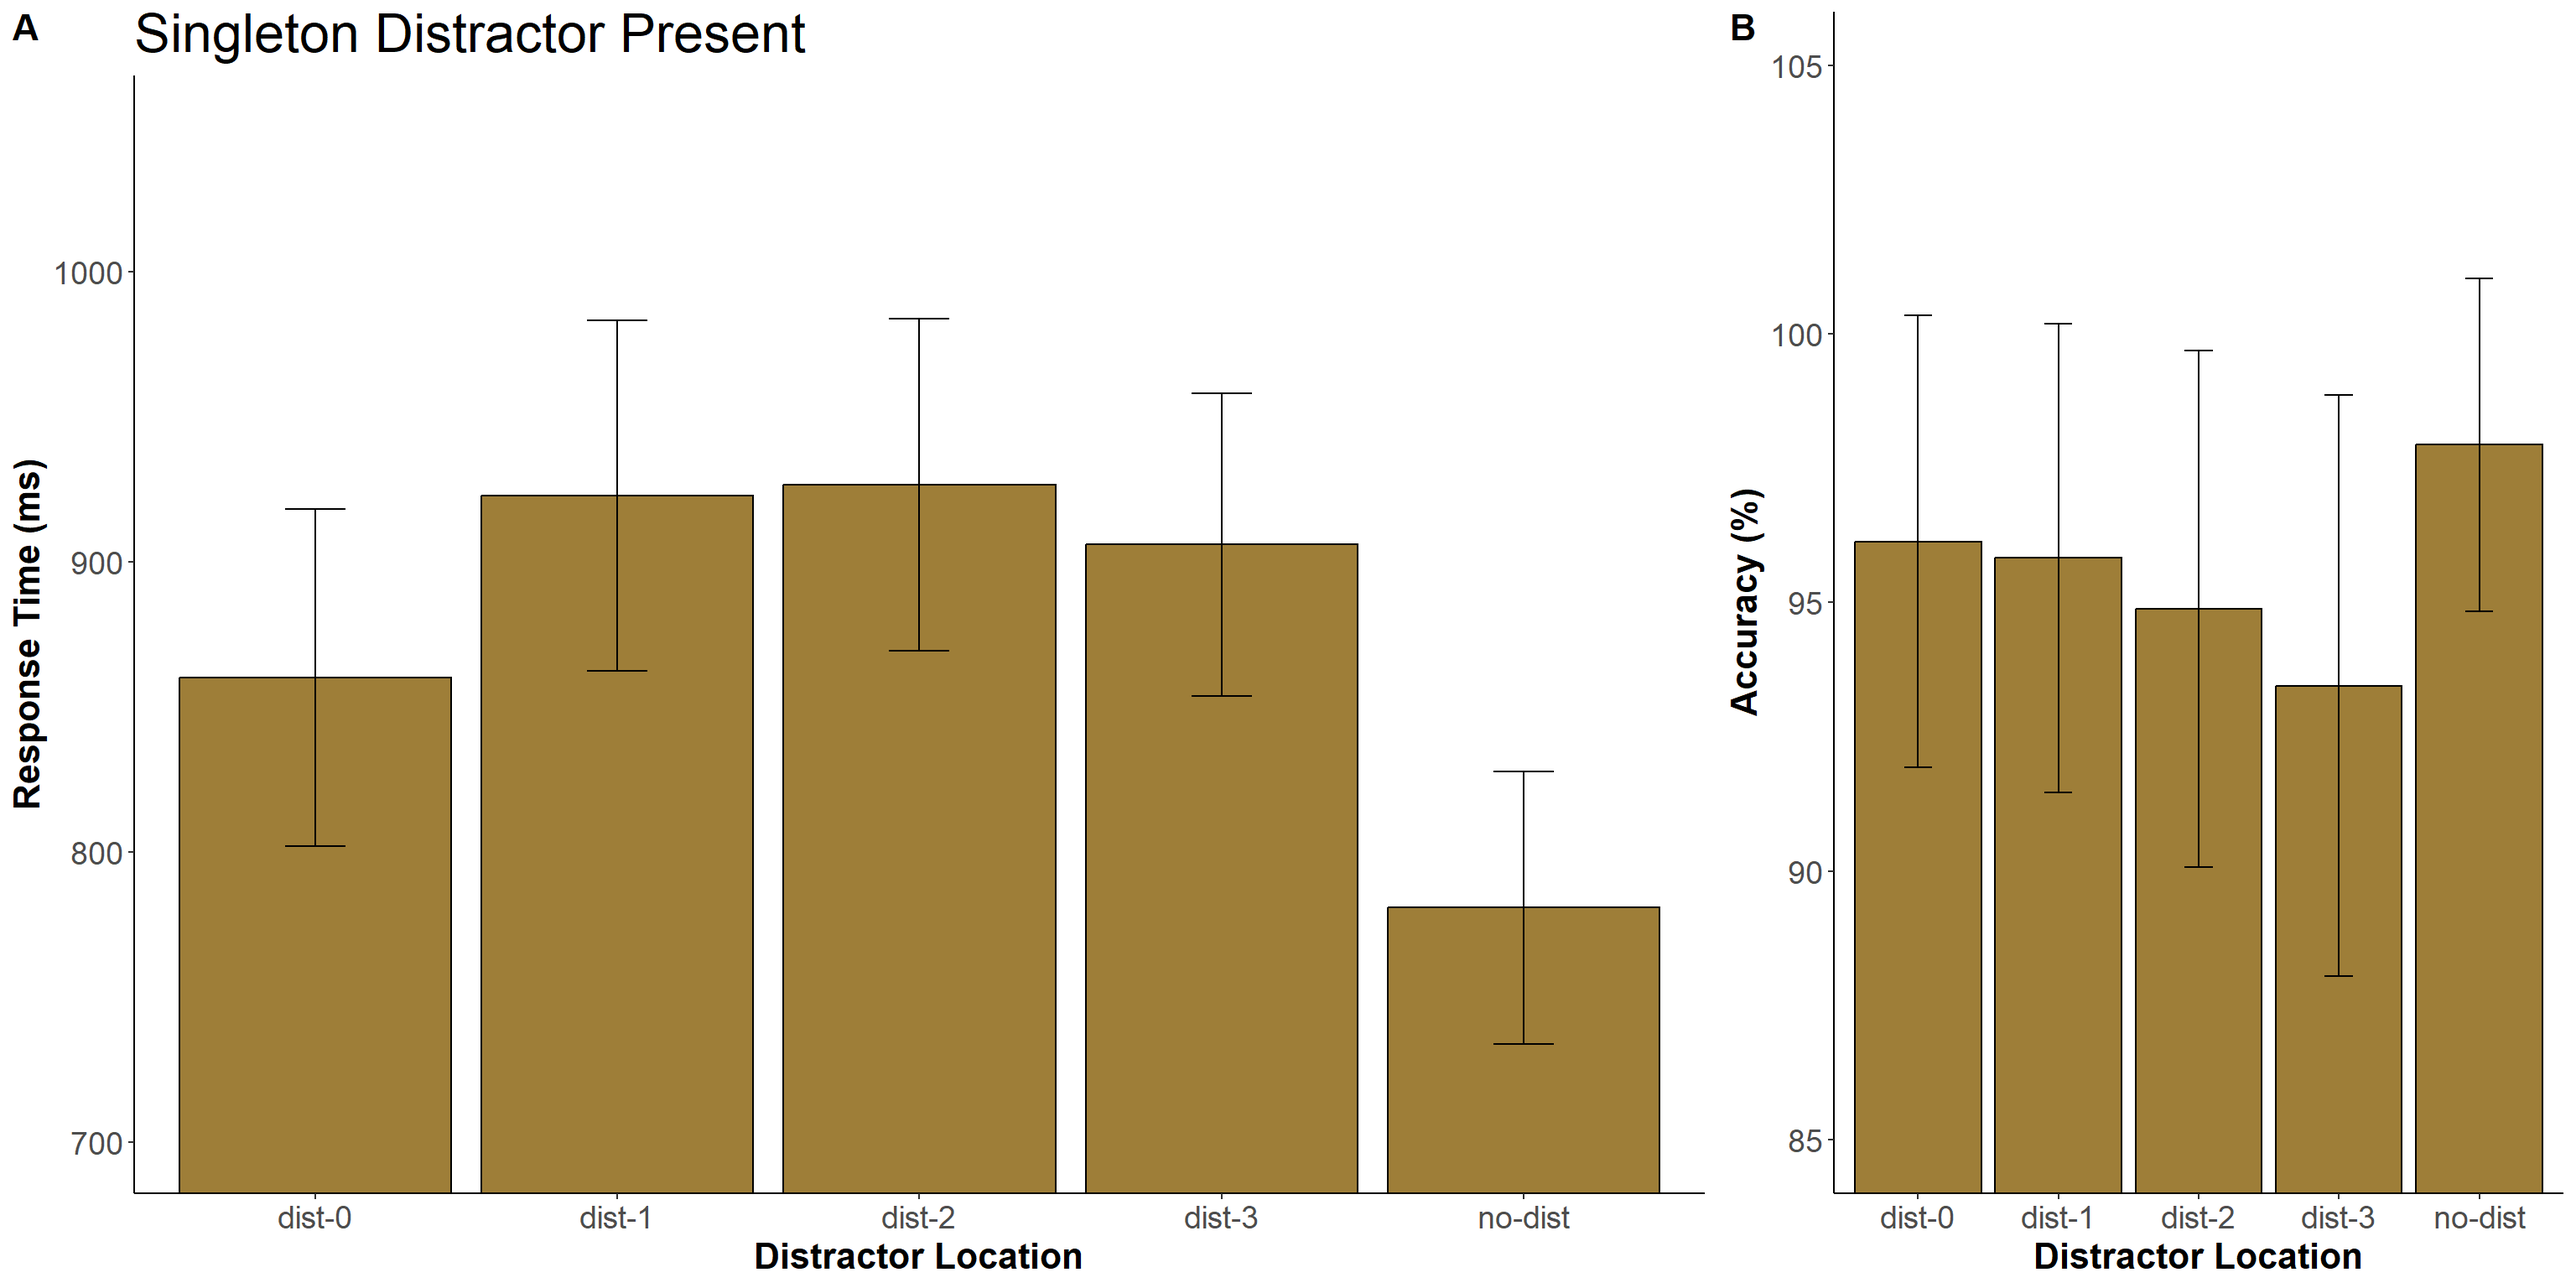
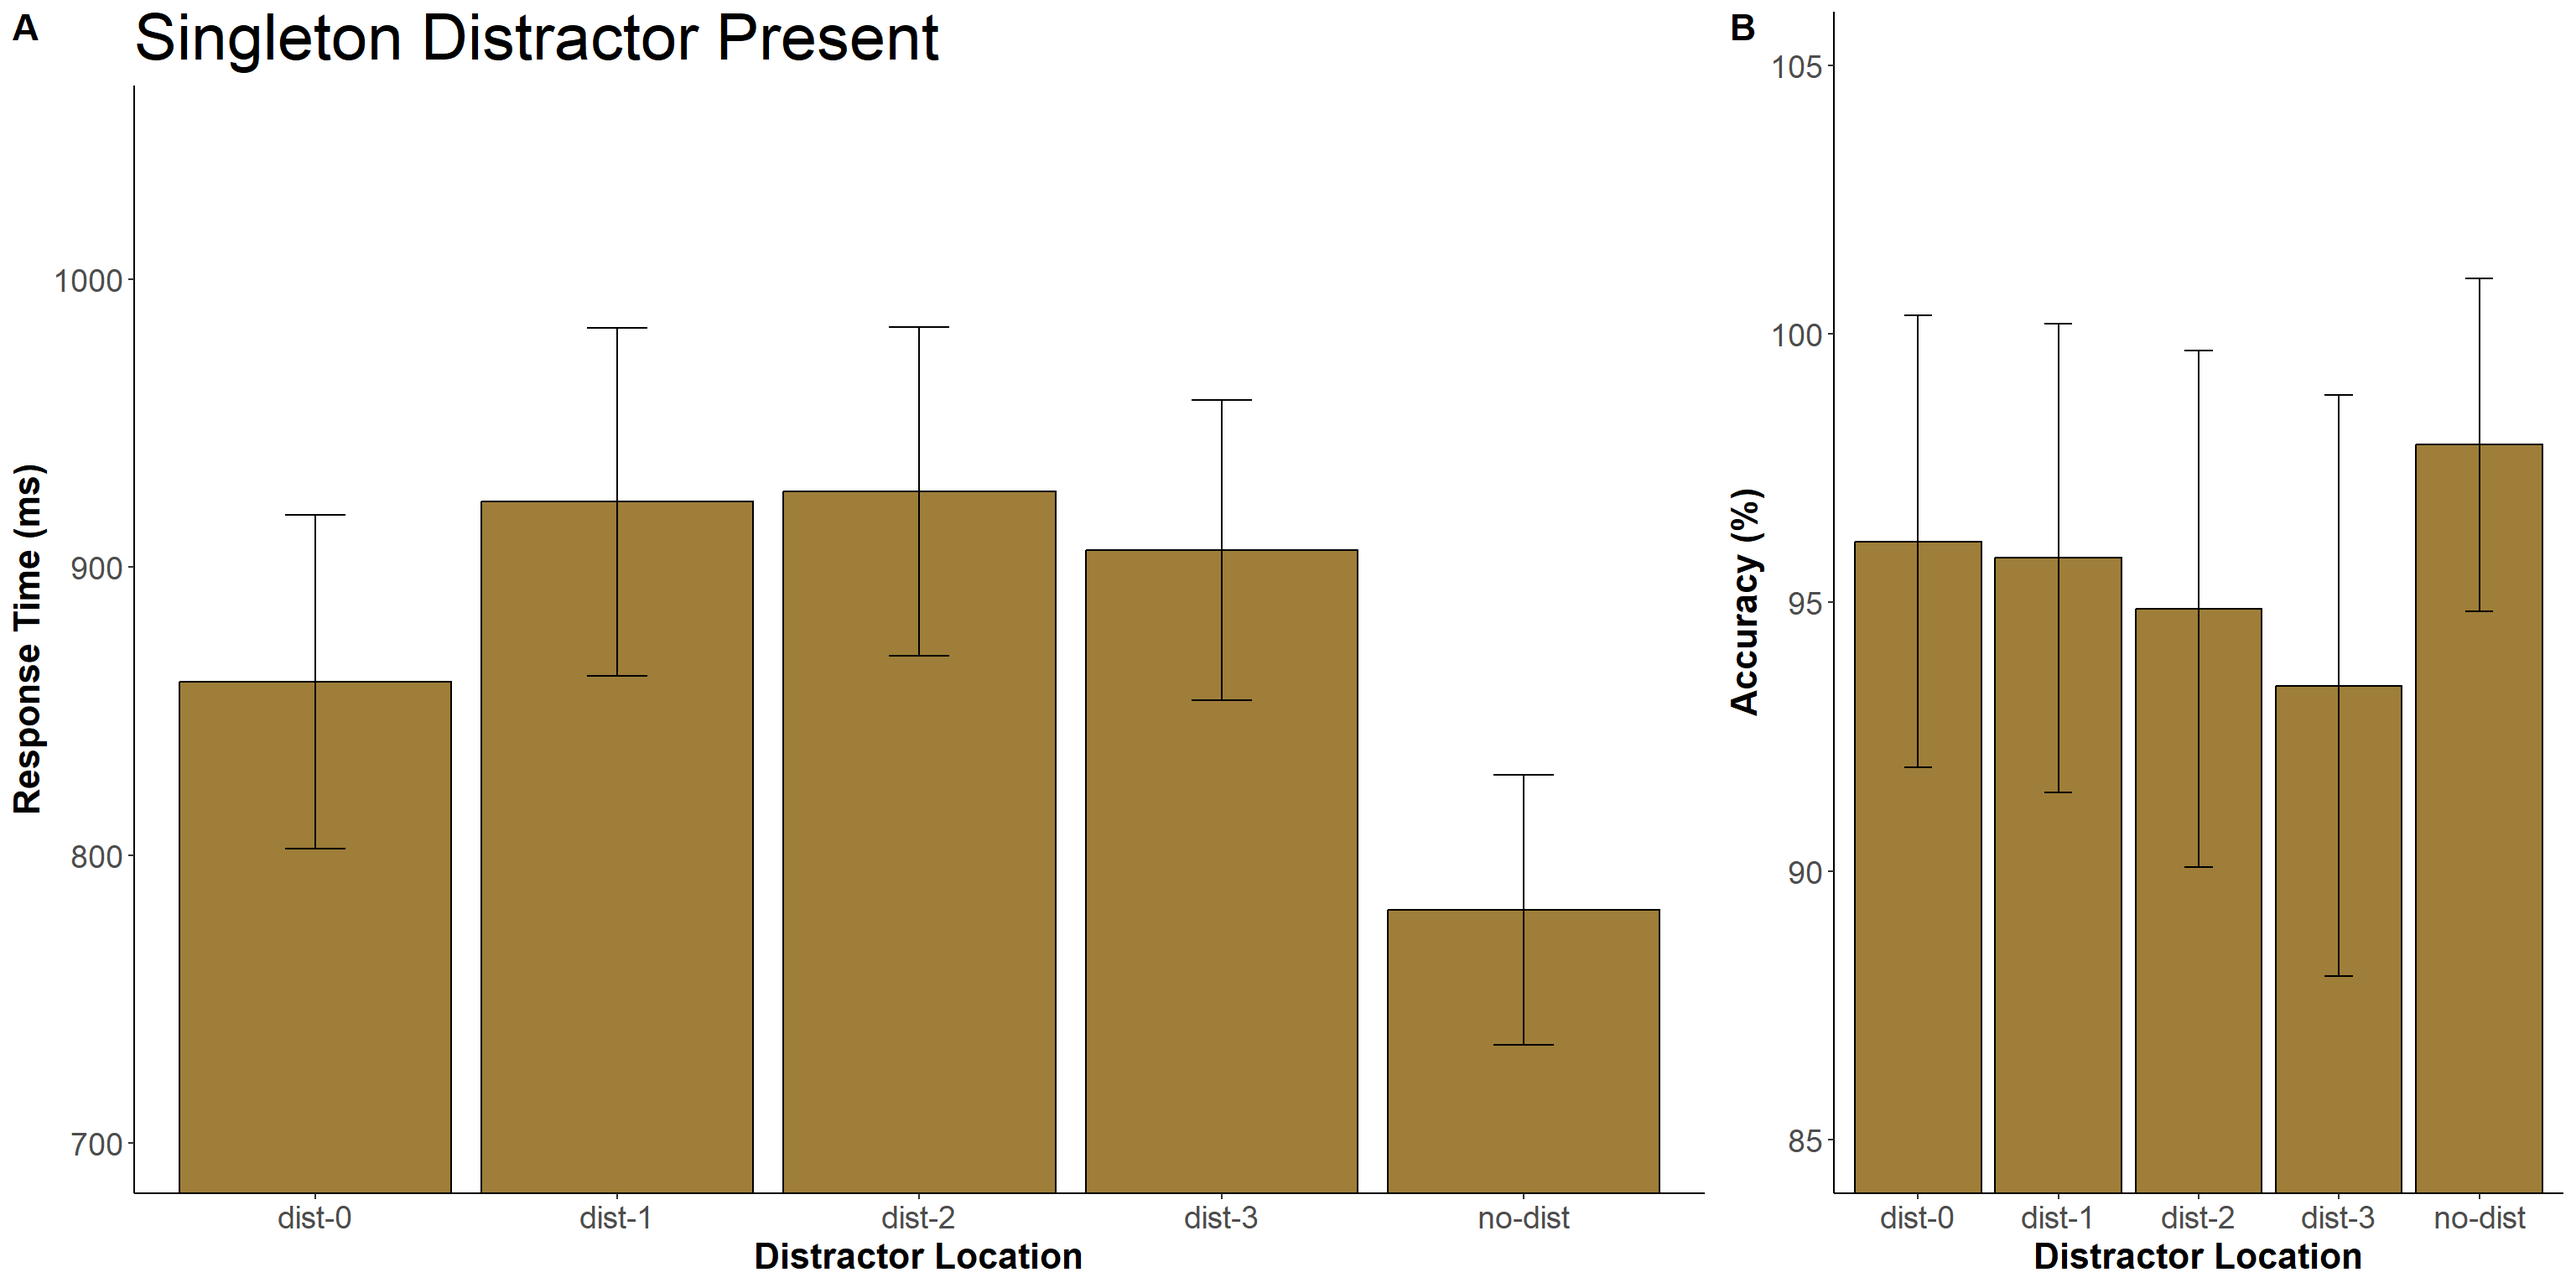
another update

diff --git a/docs/p01.html b/docs/p01.html
@@ -397,7 +397,7 @@ chose those particular colors based on Wake Forest’s color scheme.</p>
   #labs(caption = &quot;An ANOVA test shows a difference in RT depending on distractor location, F(3.28,65.57)=33.3, p&lt;.001.&quot;)+
   theme(axis.text=element_text(size=14),
         axis.title=element_text(size=16,face=&quot;bold&quot;),
-        title = element_text(size = 20))+
+        title = element_text(size = 24))+
   scale_x_discrete(labels= c(&quot;no_dist&quot;=&quot;no-dist&quot;,&quot;dist_0&quot;=&quot;dist-0&quot;,&quot;dist_1&quot;=&quot;dist-1&quot;,&quot;dist_2&quot;=&quot;dist-2&quot;,&quot;dist_3&quot;=&quot;dist-3&quot;))</code></pre>
 <p>Create a new data frame with the average RT for each relative
 distractor location per participant, so we can do a repeated measures
